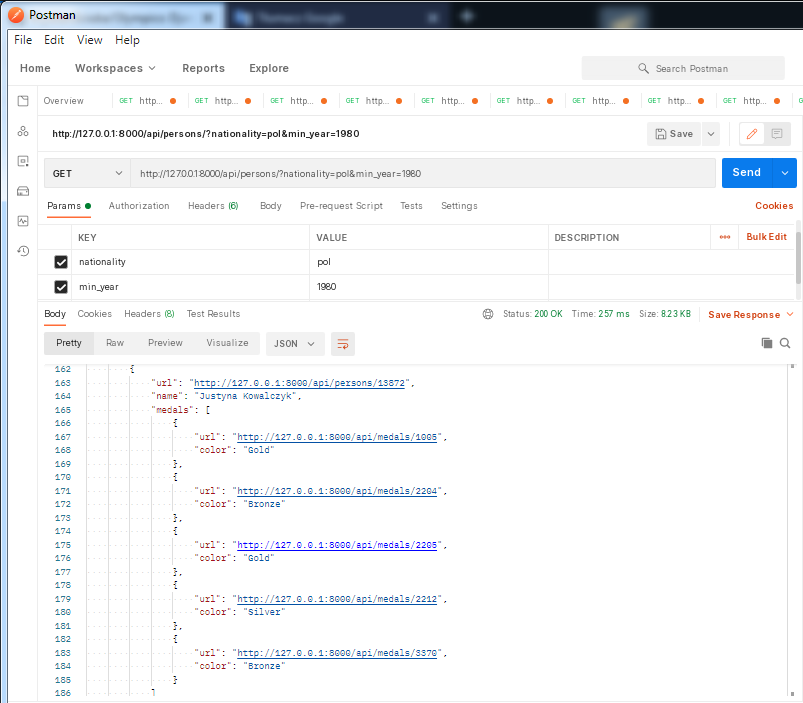
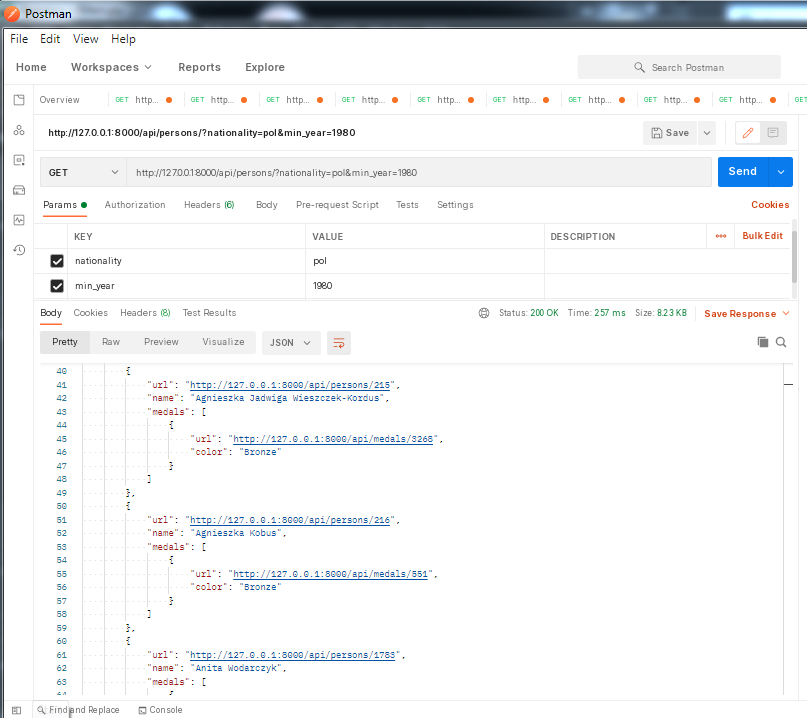
readme

diff --git a/readme.md b/readme.md
@@ -29,3 +29,24 @@ Project is created with:
 ---
 
 ##### _Features_
+
+* multiple endpoints for different data
+
+* browsable database
+
+_Layout_
+
+![List of Olympic Games](https://raw.githubusercontent.com/KrystianSciuba/Olympics/master/readme_files/1_list-of-games.PNG)
+
+![Person details](https://raw.githubusercontent.com/KrystianSciuba/Olympics/master/readme_files/2_person-detail.PNG)
+
+![Medal details](https://raw.githubusercontent.com/KrystianSciuba/Olympics/master/readme_files/3_medal-details.PNG)
+
+![Competition results](https://raw.githubusercontent.com/KrystianSciuba/Olympics/master/readme_files/4_game-events-winners.PNG)
+
+![Example of GET request in Postman (with parameters)](https://raw.githubusercontent.com/KrystianSciuba/Olympics/master/readme_files/5_postman.PNG)
+
+
+
+
+
